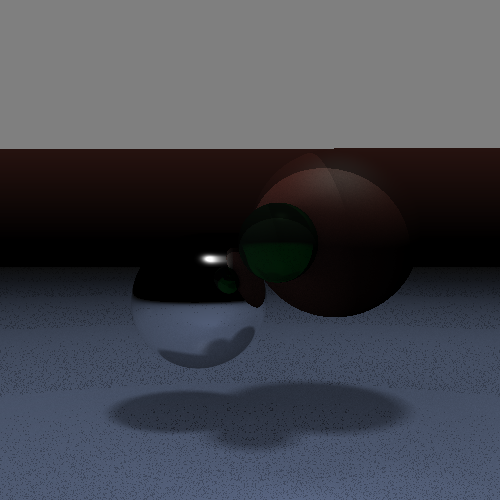
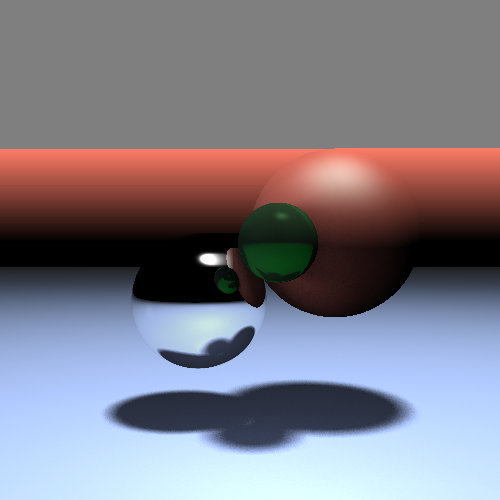
fix bug in Spheres

diff --git a/RayTracing/RayTracer.java b/RayTracing/RayTracer.java
@@ -161,6 +161,7 @@ public class RayTracer {
 		Vector firstPixel = topLeft.addVectors(delta_y.multByScalar(-0.5));
 		firstPixel = firstPixel.addVectors(delta_x.multByScalar(0.5));
 //		Vector firstPixel = new Vector(-0.5, 8.591141964605509, -1.525532962844443);
+		Color background = set.getBackgroundColor();
 
 		for (int i = 0; i < imageWidth; i++) {
 			Color color = new Color(0, 0, 0);
@@ -176,7 +177,9 @@ public class RayTracer {
 				// Color
 				if (intersection.getMinT() == Double.MAX_VALUE) {
 					// no intersection - need background color
-					color = set.getBackgroundColor();
+					color.setRed(background.getRed());
+					color.setGreen(background.getGreen());
+					color.setBlue(background.getBlue());
 				} else {
 					// has intersection
 					Color tmpColor = ColorUtils.calcColor(intersection, ray, scene,

diff --git a/src/ColorUtils.java b/src/ColorUtils.java
@@ -56,7 +56,6 @@ public class ColorUtils {
             // ligh_intesity = (1 - shadow_intensity) * 1 + shadow_intensity * (%of rays
             // that hit the points from the light source)
 
-            // light_color = light_color * (1.0-light.shadow_intensity*no_shadow_rays/self.__settings.root_num_of_shadow_rays**2)
             double shadowIntensity = softShadow(intersectionPoint, light, L.multByScalar(-1), scene);
             colorWithShadow.setRed(colorWithShadow.getRed() + color.getRed() * ((1 - light.getShadowIntensity())
                     + light.getShadowIntensity() * shadowIntensity));
@@ -67,6 +66,8 @@ public class ColorUtils {
         }
 
         // Color transparencyColor
+
+
 
 
         // Reflection

diff --git a/src/Set.java b/src/Set.java
@@ -1,7 +1,7 @@
 package src;
 
 public class Set {
-    private Color backgroundColor;
+    private final Color backgroundColor;
     private int NumberOfShadowsRays;
     private int maxRecursionLevel;
 
